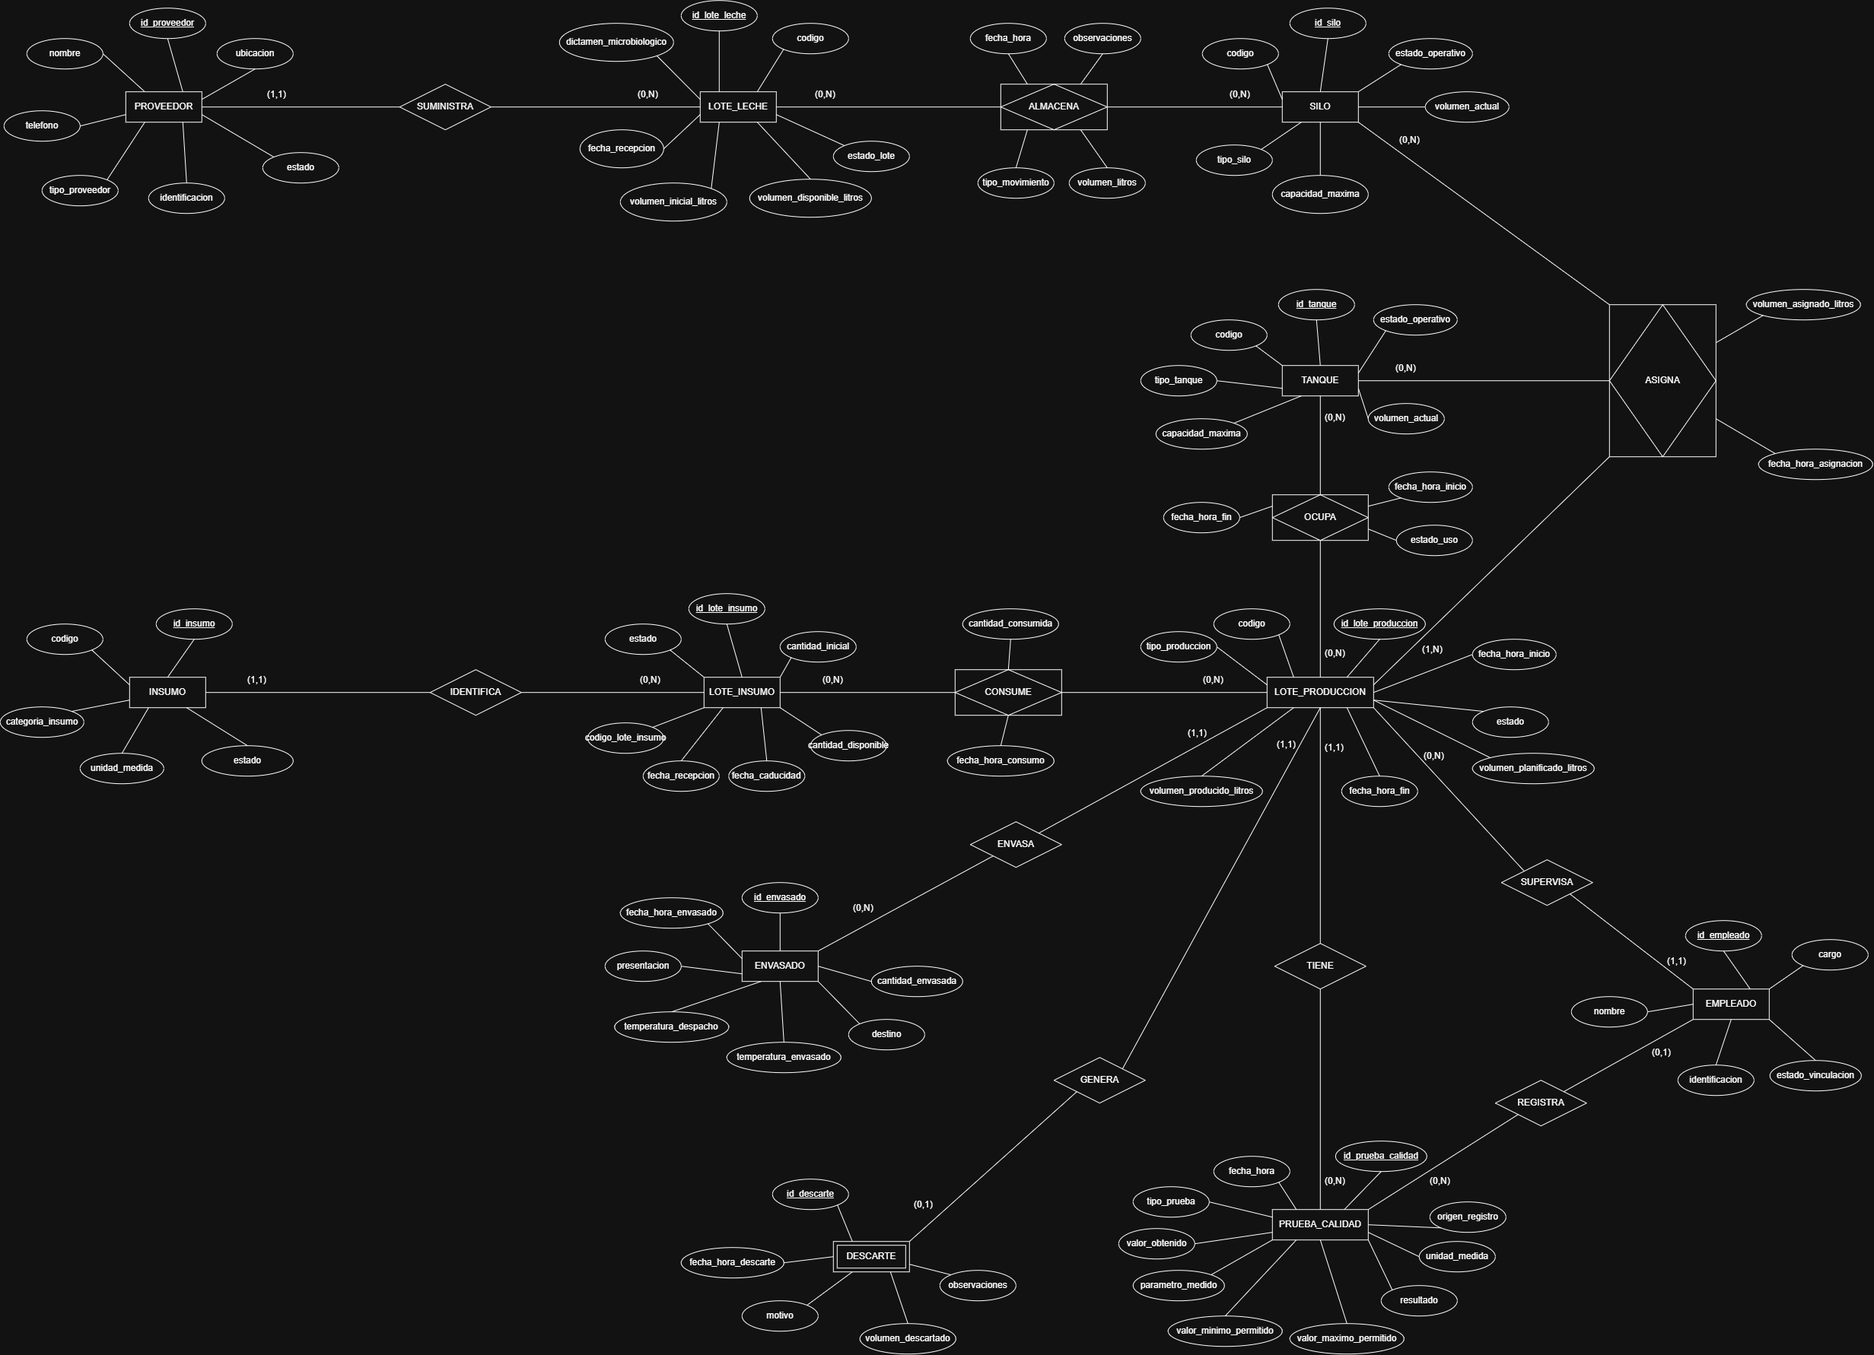
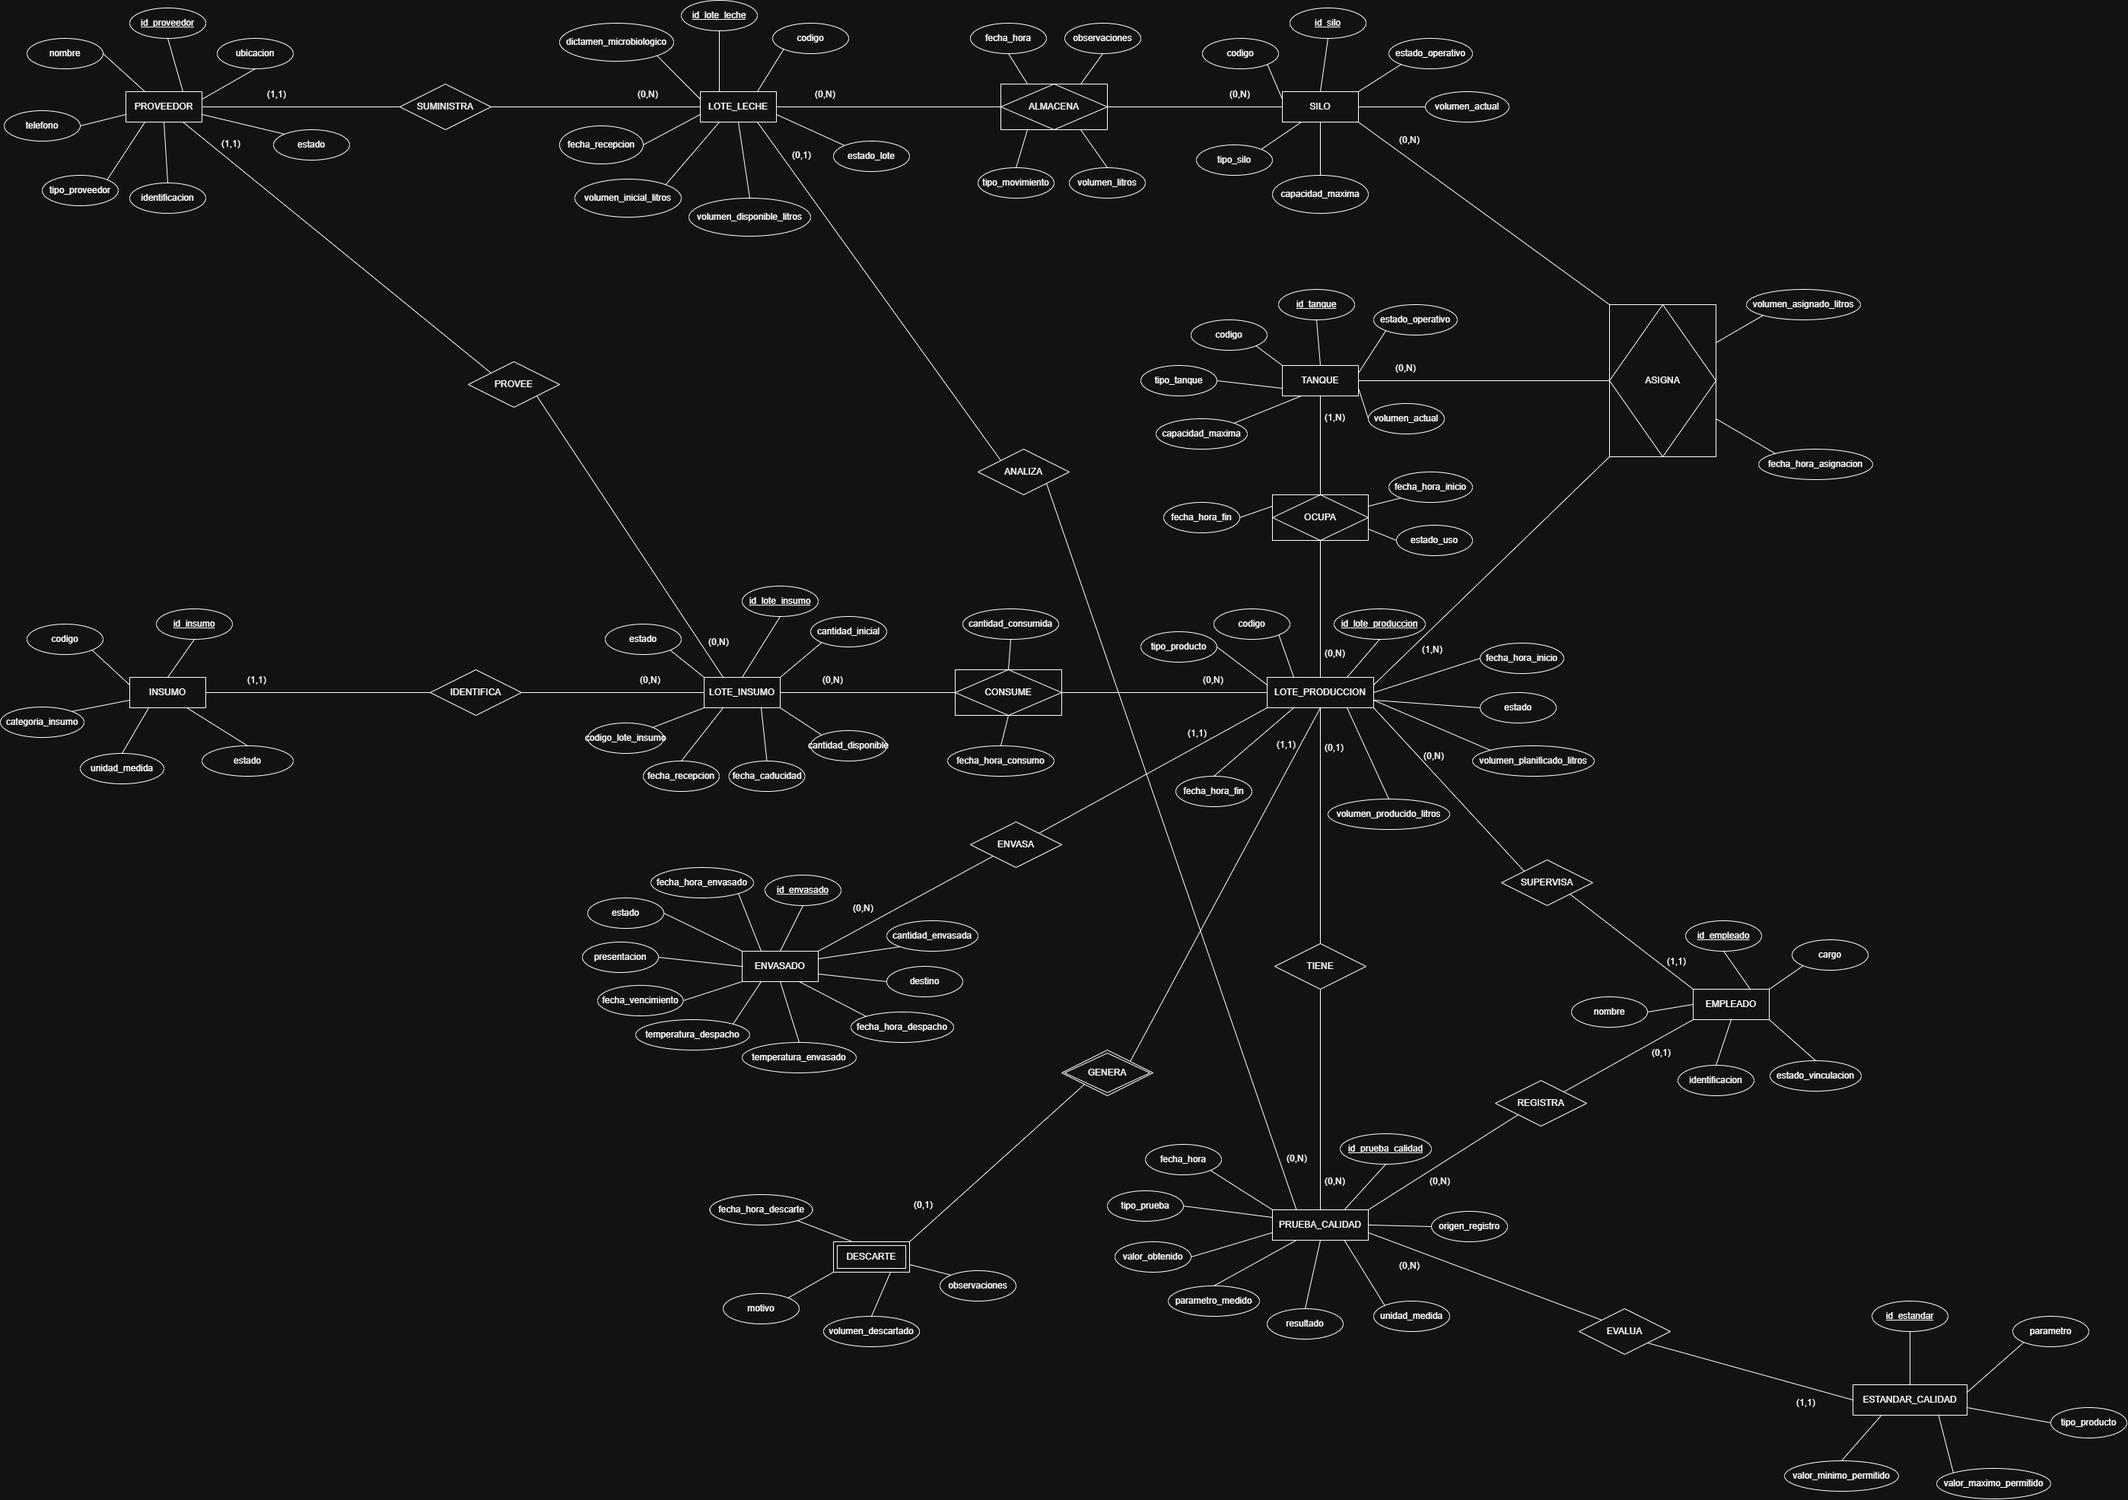
Correcciones en el diagrama y modulo 5

diff --git a/docs/05-justificaciones-er.md b/docs/05-justificaciones-er.md
@@ -1,14 +1,68 @@
 # Módulo 5 — Justificaciones del Diagrama EER
 
-Este documento recoge las decisiones de diseño no obvias tomadas al formalizar el modelo conceptual del Módulo 4 en el diagrama EER, con la notación de Chen (entidad = rectángulo, relación = rombo, atributo = óvalo).
+Este documento recoge las decisiones de diseño no obvias tomadas al formalizar el modelo conceptual del Módulo 4 en el diagrama EER, con la notación de Chen. El diagrama tiene 12 entidades (11 fuertes y 1 débil), 4 relaciones asociativas con atributos propios y 14 relaciones en total.
+
+## 1. Notación y convención de lectura
+
+| Símbolo | Significado |
+|---|---|
+| Rectángulo | Entidad fuerte |
+| Rectángulo de doble borde | Entidad débil (`Descarte`) |
+| Rombo | Relación sin atributos propios |
+| Rombo de doble borde | Relación identificante de una entidad débil (`Genera`) |
+| Rombo dentro de un rectángulo | Relación M:N con atributos propios; se convierte en tabla intermedia (`Almacena`, `Asigna`, `Ocupa`, `Consume`) |
+| Óvalo | Atributo; subrayado cuando es clave primaria |
+
+**Convención de lectura de cardinalidades:** el valor (min,max) junto a una entidad indica cuántas instancias de *esa* entidad se asocian a una instancia de la entidad del otro extremo. Ejemplo: en `Suministra`, `(1,1)` junto a `Proveedor` y `(0,N)` junto a `LoteLeche` significan que cada lote tiene un solo proveedor y que un proveedor puede tener varios lotes. Es la misma convención del Módulo 4.
+
+En la relación ternaria `Asigna`, cada valor se define por entidad respecto a la relación completa, no por pares de entidades.
+
+## 2. Decisiones de diseño
 
 | Pregunta | Decisión | Justificación | Impacto en el diseño |
 |---|---|---|---|
-| ¿Cómo se representa la asignación de leche desde un silo hacia un tanque para un lote de producción? | Se modeló como una **relación ternaria** (`Asigna`), no como dos relaciones binarias encadenadas. | Un registro de asignación siempre involucra simultáneamente un Silo, un Tanque y un LoteProducción en un mismo evento; separarlo en dos binarias perdería la atomicidad del evento y obligaría a inventar una entidad intermedia artificial. | El rombo `Asigna` tiene tres líneas (una por entidad), con atributos propios (`fechaHoraAsignación`, `volumenAsignadoLitros`) colgando de él, y se traduce en una sola tabla con tres FK. |
-| ¿Existe una cardinalidad directa entre Silo y Tanque, o entre Silo y LoteProducción? | **No.** En una relación ternaria la cardinalidad se define por entidad respecto al conjunto completo de la relación, no por pares de entidades. | Tratar de asignar una cardinalidad "Silo-Tanque" implicaría descomponer la ternaria en binarias escondidas, lo cual no es correcto en notación de Chen ni refleja el negocio real (no hay una regla que límite directamente cuántos tanques puede alimentar un silo, sin importar el lote). | Silo (0,N), Tanque (0,N) y LoteProducción (1,N) son las únicas cardinalidades del rombo `Asigna`; cualquier relación "Silo ↔ Tanque" solo se puede derivar por consulta (join), no está en el modelo. |
-| ¿Por qué existen dos relaciones separadas — `Almacena` (Silo↔LoteLeche) y `Asigna` (Silo-Tanque-LoteProducción) — en vez de una sola? | Se mantienen como dos entidades asociativas independientes. | Representan eventos de negocio distintos y en momentos distintos del proceso: `Almacena` registra el **acopio** de leche cruda en un silo (antes de procesarse), mientras que `Asigna` registra la **transferencia** de leche desde el silo hacia un tanque para iniciar un lote de producción. Fusionarlas obligaría a que todo movimiento de leche tuviera un tanque y un lote asociado desde el primer momento, lo cual no es cierto. | `Almacena` (M:N Silo-LoteLeche) con atributos `fechaHora`, `tipoMovimiento`, `volumenLitros`, `observaciones`; `Asigna` (ternaria) con sus propios atributos. Ambas se convierten en tablas intermedias distintas en el Módulo 6. |
-| ¿`Insumo` debe ser entidad fuerte o débil? | Se clasifica como **entidad fuerte**. | `Insumo` representa el catálogo de tipos de materia prima (cultivo láctico, pulpa de fruta, etc.) y tiene identidad propia e independiente — no necesita la clave de ninguna otra entidad para existir. Es `LoteInsumo` (cada recepción concreta de un insumo) quien depende conceptualmente del catálogo, no al revés. | `Insumo` tiene PK propia (`id_insumo`) y una relación 1:N regular (`Identifica`) hacia `LoteInsumo`, sin doble borde. |
-| ¿Por qué `LoteInsumo` tiene atributos propios en vez de heredarlos de `Insumo`? | Se separaron `fechaCaducidad`, `cantidadInicial`, `cantidadDisponible`, `fechaRecepcion` y `codigoLoteInsumo` hacia `LoteInsumo`, dejando en `Insumo` solo lo que describe el *tipo* (`codigo`, `categoriaInsumo`, `unidadMedida`, `estado`). | Esos datos varían por cada recepción concreta (cada lote de cultivo o pulpa que llega tiene su propia fecha de caducidad y cantidad), no por tipo de insumo. Dejarlos en `Insumo` habría duplicado información y hecho imposible manejar varios lotes vigentes del mismo insumo a la vez. | Permite controlar disponibilidad y caducidad por lote individual (soporta RN-02 y RN-10 del Módulo 3). |
-| ¿`Descarte` es entidad fuerte o débil? | Se modela como **entidad débil**, dependiente de `LoteProducción`. | Un registro de descarte no tiene existencia ni identidad propia fuera de un lote de producción — no puede existir un "descarte" sin un lote que lo origine, y su clave se apoya en la de `LoteProducción`. | Doble borde en el diagrama; relación `Genera` con cardinalidad (0,1) del lado de `LoteProducción` (un lote puede no generar descarte o generar uno) y (1,1) del lado de `Descarte` (todo descarte pertenece a exactamente un lote). Corresponde a RN-05. |
-| ¿Por qué `Registra` (Empleado↔PruebaCalidad) es una relación opcional (0,1)? | Una prueba de calidad puede no tener un empleado responsable si el registro fue generado automáticamente por un sensor. | Esto refleja la decisión del Módulo 3: el pH se mide cada 5 minutos por sensor automático y cada 2 horas es validado por un operario — solo el segundo caso tiene un empleado asociado. | El atributo `origenRegistro` en `PruebaCalidad` distingue `Sensor` de `Operario`; la cardinalidad (0,1) en el diagrama permite ambos casos sin forzar un empleado ficticio. |
-| ¿Por qué `Envasa` (LoteProducción↔Envasado) es 1:N y no 1:1? | Un lote de producción puede generar más de un registro de envasado (por ejemplo, si se envasa en distintas presentaciones o en distintos momentos). | Corregido tras revisión: la redacción original del Módulo 4 sugería 1:1, pero la descripción en prosa ya indicaba "uno o varios registros de envasado" por lote. | Cardinalidad (1,1) del lado de `Envasado` y (0,N) del lado de `LoteProducción`. |
+| ¿Cómo se representa la asignación de leche desde un silo hacia un tanque para un lote de producción? | Una **relación ternaria** (`Asigna`), no dos relaciones binarias encadenadas. | Un registro de asignación involucra a la vez un Silo, un Tanque y un LoteProducción en un mismo evento; separarlo en binarias perdería la atomicidad del evento y obligaría a inventar una entidad intermedia artificial. | El rombo `Asigna` tiene tres líneas, con atributos propios (`fecha_hora_asignacion`, `volumen_asignado_litros`), y se traduce en una sola tabla con tres FK. |
+| ¿Existe una cardinalidad directa entre Silo y Tanque, o entre Silo y LoteProducción? | **No.** En una ternaria la cardinalidad se define por entidad respecto al conjunto completo de la relación. | Asignar una cardinalidad Silo–Tanque implicaría descomponer la ternaria en binarias escondidas, lo cual no es correcto en la notación de Chen ni refleja el negocio: ninguna regla limita cuántos tanques puede alimentar un silo sin importar el lote. | Silo (0,N), Tanque (0,N) y LoteProducción (1,N) son las únicas cardinalidades de `Asigna`. Cualquier relación Silo–Tanque se deriva por consulta (join). |
+| ¿Por qué `Almacena` (Silo↔LoteLeche) y `Asigna` (Silo–Tanque–LoteProducción) son relaciones separadas? | Se mantienen como dos relaciones asociativas independientes. | Son eventos distintos en momentos distintos: `Almacena` registra el acopio de leche cruda en un silo, antes de procesarla; `Asigna` registra la transferencia desde el silo hacia un tanque para iniciar un lote de producción. Fusionarlas obligaría a que todo movimiento de leche tuviera tanque y lote desde el primer momento, lo cual no es cierto. | `Almacena` (M:N) con `fecha_hora`, `tipo_movimiento`, `volumen_litros` y `observaciones` (el grupo decidió conservar este último). Ambas son tablas intermedias distintas en el Módulo 6. |
+| ¿`Insumo` es entidad fuerte o débil? | **Fuerte.** | `Insumo` es el catálogo de tipos de materia prima (cultivo láctico, pulpa de fruta, etc.) y tiene identidad propia. Es `LoteInsumo` (cada recepción concreta) quien depende del catálogo, no al revés. | PK propia (`id_insumo`) y relación `Identifica` (1,1)–(0,N) hacia `LoteInsumo`, sin doble borde. |
+| ¿Por qué `LoteInsumo` tiene atributos propios en vez de heredarlos de `Insumo`? | `fecha_caducidad`, `cantidad_inicial`, `cantidad_disponible`, `fecha_recepcion` y `codigo_lote_insumo` viven en `LoteInsumo`; `Insumo` conserva solo lo que describe el tipo (`codigo`, `categoria_insumo`, `unidad_medida`, `estado`). | Esos datos varían en cada recepción: cada lote de cultivo o pulpa tiene su propia caducidad y cantidad. Dejarlos en `Insumo` duplicaría información e impediría manejar varios lotes vigentes del mismo insumo. | Permite controlar disponibilidad y caducidad por lote (RN-02 y RN-10 del Módulo 3). |
+| ¿Quién suministra los insumos? | Se agrega la relación `Provee` entre `Proveedor` y `LoteInsumo`: (1,1) junto a `Proveedor` y (0,N) junto a `LoteInsumo`. | El Módulo 4 define al proveedor como quien suministra leche cruda *u otros insumos*, pero el diagrama solo lo conectaba con `LoteLeche`. Sin esta relación no se puede responder qué proveedor entregó un cultivo o aditivo (requisito 9 del Módulo 2). | Cada lote de insumo tiene exactamente un proveedor. En el Módulo 6, `LoteInsumo` lleva una FK a `Proveedor`. |
+| ¿Cómo se registran las pruebas de calidad de la leche cruda? | Se agrega la relación `Analiza` entre `LoteLeche` y `PruebaCalidad`: (0,1) junto a `LoteLeche` y (0,N) junto a `PruebaCalidad`. Por eso `Tiene` queda en (0,1) junto a `LoteProducción`. | Una prueba puede aplicarse a un lote de leche cruda (en recepción) o a un lote de producción, nunca a ambos. Sin `Analiza` no se podía registrar el pH, la acidez ni la grasa en recepción (requisitos 5, 8 y 14) ni analizar la leche antes de usarla (RN-01). | `PruebaCalidad` tiene dos FK opcionales y, en el Módulo 6, un CHECK que exige que exactamente una esté llena. |
+| ¿Por qué existe `EstandarCalidad` en vez de guardar el mínimo y el máximo en cada prueba? | Entidad fuerte `EstandarCalidad` (`id_estandar`, `parametro`, `tipo_producto`, `valor_minimo_permitido`, `valor_maximo_permitido`) y relación `Evalúa`: (1,1) junto a `EstandarCalidad` y (0,N) junto a `PruebaCalidad`. | Los rangos dependen del producto y del parámetro, no de la prueba concreta: copiarlos en cada fila crea una dependencia transitiva que incumple 3NF y obliga a corregir miles de filas si cambia un rango. Es además la regla que usa RN-04. El atributo `tipo_producto` permite un rango de pH para la leche cruda y otro para el yogur. | `PruebaCalidad` ya no tiene `valor_minimo_permitido` ni `valor_maximo_permitido`; el rango se obtiene por la relación `Evalúa`. |
+| ¿Por qué `Registra` (Empleado↔PruebaCalidad) es opcional (0,1)? | Una prueba puede no tener empleado responsable si la generó un sensor. | Refleja el Módulo 3: el pH se mide cada 5 minutos por sensor y cada 2 horas lo valida un operario; solo el segundo caso tiene empleado. | El atributo `origen_registro` distingue `Sensor` de `Operario`; el (0,1) permite ambos casos sin forzar un empleado ficticio. |
+| ¿`Descarte` es entidad fuerte o débil? | **Débil**, dependiente de `LoteProducción`. | Un descarte no tiene existencia ni identidad fuera de un lote de producción. Como un lote genera como máximo un descarte, no necesita clave parcial: su clave completa es la del lote (`id_lote_produccion`). | Doble borde en `Descarte` y en el rombo `Genera`, sin óvalo de clave propia. `Genera`: (1,1) junto a `LoteProducción` y (0,1) junto a `Descarte`. Corresponde a RN-05. |
+| ¿Por qué `Envasa` (LoteProducción↔Envasado) es 1:N y no 1:1? | Un lote puede generar más de un registro de envasado (por ejemplo, en distintas presentaciones o momentos). | Coincide con R09 del Módulo 4. | (1,1) junto a `LoteProducción` y (0,N) junto a `Envasado`. El mínimo es 0 porque un lote rechazado o descartado nunca se envasa (RN-03). |
+| ¿Qué datos de despacho guarda `Envasado`? | Se agregan `fecha_vencimiento` y `fecha_hora_despacho`; el grupo decidió conservar también `estado`. | La fecha de vencimiento es parte de los reportes regulatorios (requisito 7) y la fecha y hora de despacho acompaña la temperatura de despacho para rastrear la cadena de frío (supuesto 14 del Módulo 3). | Los valores permitidos de `estado` se definen en el diccionario de datos (Módulo 7). |
+| ¿Cómo se modela el uso del tanque (`Ocupa`)? | Relación M:N con atributos propios (`fecha_hora_inicio`, `fecha_hora_fin`, `estado_uso`): (0,N) junto a `LoteProducción` y (1,N) junto a `Tanque`. | Un lote usa al menos un tanque (por ejemplo, tanque de fermentación y tanque de mezcla con fruta) y un tanque procesa muchos lotes a lo largo del tiempo. | Un lote que pasa por dos tanques se registra con dos filas de `Ocupa`. La regla de un solo lote activo por tanque (RN-06) no se ve en la cardinalidad; se controla con las fechas (sección 4). |
+| ¿Por qué la fermentación no es una entidad? | Se resuelve con `Ocupa` y `PruebaCalidad`. | La fermentación es una etapa del proceso, no un objeto ni un registro con ciclo de vida propio. Su duración sale del inicio y fin del uso del tanque, y sus mediciones (pH, temperatura) de las pruebas de calidad. | No hay entidad `Fermentacion`. Es la misma justificación que el Módulo 4, sección 5. |
+| ¿Por qué el producto es un atributo y no una entidad? | `tipo_producto` es atributo de `LoteProducción`. | El alcance de la fase 1 es solo yogur, así que un catálogo de productos no aporta consultas nuevas. | Si en el futuro se amplía a queso u otros productos, `tipo_producto` pasaría a una entidad `Producto`. |
+
+## 3. Cardinalidades finales
+
+| Relación | Junto a la primera entidad | Junto a la segunda |
+|---|---|---|
+| Suministra | Proveedor (1,1) | LoteLeche (0,N) |
+| Provee | Proveedor (1,1) | LoteInsumo (0,N) |
+| Identifica | Insumo (1,1) | LoteInsumo (0,N) |
+| Supervisa | Empleado (1,1) | LoteProducción (0,N) |
+| Tiene | LoteProducción (0,1) | PruebaCalidad (0,N) |
+| Analiza | LoteLeche (0,1) | PruebaCalidad (0,N) |
+| Evalúa | EstandarCalidad (1,1) | PruebaCalidad (0,N) |
+| Registra | Empleado (0,1) | PruebaCalidad (0,N) |
+| Envasa | LoteProducción (1,1) | Envasado (0,N) |
+| Genera | LoteProducción (1,1) | Descarte (0,1) |
+| Almacena | Silo (0,N) | LoteLeche (0,N) |
+| Ocupa | LoteProducción (0,N) | Tanque (1,N) |
+| Consume | LoteProducción (0,N) | LoteInsumo (0,N) |
+| Asigna (ternaria) | Silo (0,N), Tanque (0,N) | LoteProducción (1,N) |
+
+## 4. Límites del modelo y reglas que se resuelven fuera del diagrama
+
+- **Un solo lote activo por tanque (RN-06):** `Ocupa` es M:N, así que la cardinalidad no lo impide. Se controla con `fecha_hora_inicio` y `fecha_hora_fin` y una restricción en el esquema.
+- **Capacidad del tanque (RN-07):** la suma de `volumen_asignado_litros` de `Asigna` para un lote activo no puede superar `capacidad_maxima` del tanque. Se valida fuera del diagrama.
+- **Prueba de leche o de producción, nunca ambas:** se implementa en el Módulo 6 con dos FK y un CHECK.
+- **Leche cruda rechazada:** queda registrada en `LoteLeche` (`estado_lote` y `dictamen_microbiologico`) y no genera `Descarte`, que aplica solo a lotes de producción.
+- **Alertas de pH (RN-04):** no hay entidad `Alerta`; se detectan con una consulta sobre el historial de `PruebaCalidad` frente a `EstandarCalidad`.
+- **Trazabilidad por silo:** el silo mezcla leche de varios lotes. El modelo permite saber qué lotes de leche pasaron por un silo (`Almacena`) y qué silos alimentaron cada lote de producción (`Asigna`), pero no qué litros de cada lote de leche terminaron en cada lote de yogur.
+- **Supervisor:** cada lote tiene un solo supervisor (`Supervisa`), sin historial de cambios en la fase 1.
+- **Claves primarias de las relaciones asociativas:** `Almacena`, `Asigna`, `Ocupa` y `Consume` no llevan óvalo de clave en el diagrama; el Módulo 6 define sus claves.
